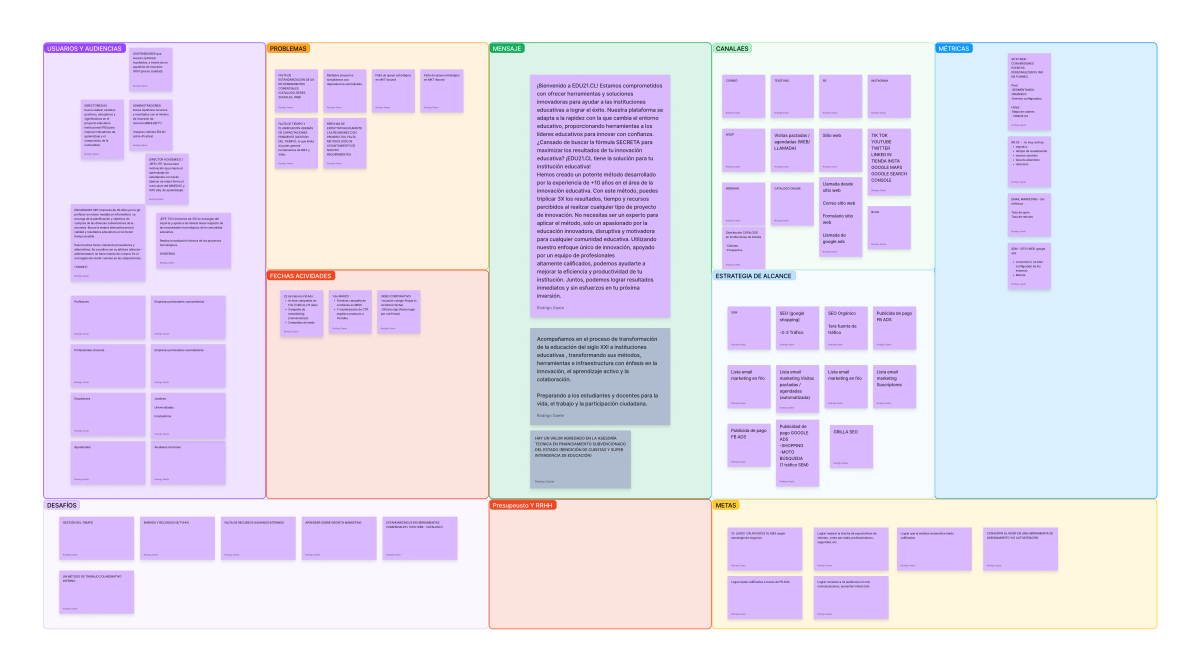
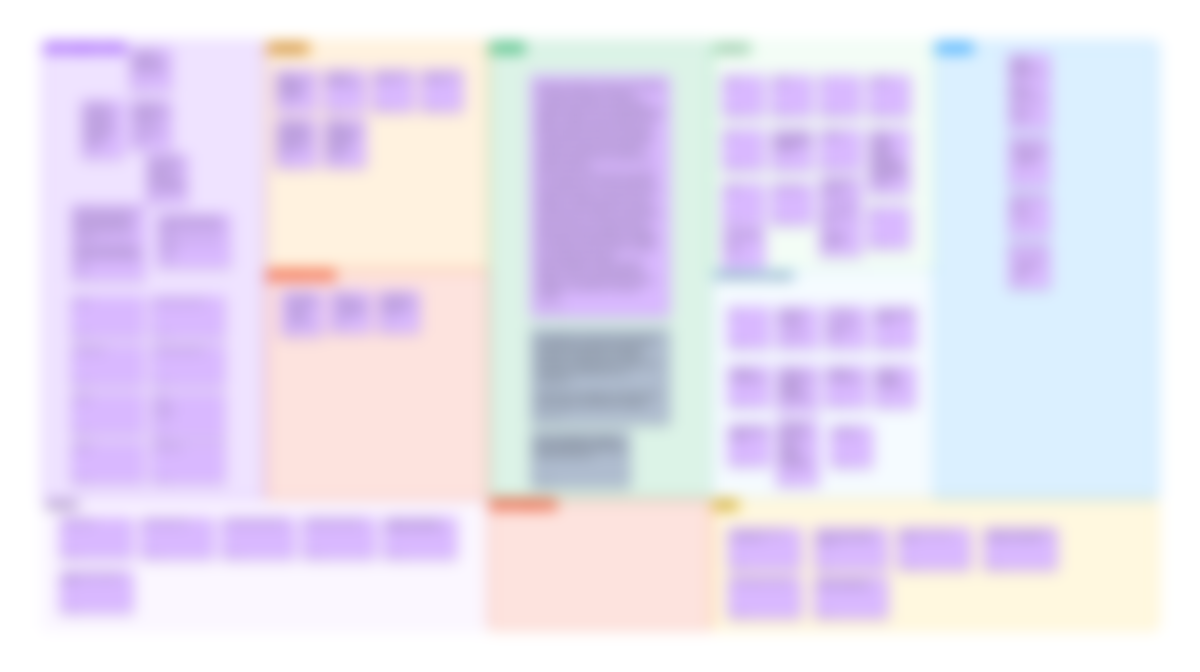
fix(a11y): redacta la lámina de estrategia y el contraste de la selección
Sustituye la captura pública por la versión difuminada y pasa el OCR de dist por la misma lista sha256, con acentos plegados. El pie de la selección usa el token de primer plano y queda dentro de la columna, para que axe resuelva un fondo único.

diff --git a/src/casos/CasoView.tsx b/src/casos/CasoView.tsx
@@ -129,9 +129,9 @@ export function CasoIndex({ slug }: { slug: string }) {
   );
 }
 
-function PieceNav({ casoHref, nextHref }: { casoHref: string; nextHref?: string }) {
+function PieceNav({ casoHref, nextHref, label }: { casoHref: string; nextHref?: string; label: string }) {
   return (
-    <nav aria-label="Pieza" className="mt-8 flex flex-wrap gap-4">
+    <nav aria-label={label} className="mt-8 flex flex-wrap gap-4">
       <a href={casoHref} className="inline-flex min-h-11 items-center font-semibold underline underline-offset-4 hover:text-primary">
         Volver al caso
       </a>
@@ -150,13 +150,14 @@ export function CasoPiece({ casoSlug, pieceSlug }: { casoSlug: string; pieceSlug
   const nextHref = next ? withSiteBase(piezaPath(caso.slug, next.slug)) : undefined;
   return (
     <Shell>
-      <article data-page="pieza" data-caso={caso.slug} data-piece={piece.slug} className="container mx-auto max-w-3xl px-4 py-12 md:py-16">
+      <article data-page="pieza" data-caso={caso.slug} data-piece={piece.slug} className="mx-auto w-[min(64rem,calc(100vw-2rem))] py-12 md:py-16">
+        <div className="mx-auto max-w-3xl px-4">
         <Crumbs casoTitle={caso.title} casoHref={casoHref} pieceTitle={piece.title} />
         <h1 className="text-3xl font-bold tracking-tight sm:text-4xl">{piece.title}</h1>
         <p className="mt-3">
           <TodoMark text="[TODO Rö: «Pitch de ventas y simulación» vs «Pitch y herramientas comerciales»]" />
         </p>
-        <PieceNav casoHref={casoHref} nextHref={nextHref} />
+        <PieceNav casoHref={casoHref} nextHref={nextHref} label="Pieza, al inicio" />
 
         <section className={SECTION} aria-labelledby="ficha-heading">
           <h2 id="ficha-heading" className={H2}>
@@ -204,23 +205,24 @@ export function CasoPiece({ casoSlug, pieceSlug }: { casoSlug: string; pieceSlug
             ))}
           </ol>
         </section>
+        </div>
 
-        <section
-          className={`${SECTION} lg:relative lg:left-1/2 lg:w-[min(64rem,calc(100vw-2rem))] lg:-translate-x-1/2`}
-          aria-labelledby="seleccion-heading"
-        >
-          <h2 id="seleccion-heading" className={H2}>
-            Selección
-          </h2>
-          <p className="mt-2 text-sm text-muted-foreground">
-            {piece.slides.length} láminas de una selección. No es el archivo completo.
-          </p>
-          <p className="mt-3">
-            <TodoMark text="[TODO Rö: pasos de los 3 diagramas raster]" />
-          </p>
+        <section className={SECTION} aria-labelledby="seleccion-heading">
+          <div className="mx-auto max-w-3xl px-4">
+            <h2 id="seleccion-heading" className={H2}>
+              Selección
+            </h2>
+            <p className="mt-2 text-sm text-foreground">
+              {piece.slides.length} láminas de una selección. No es el archivo completo.
+            </p>
+            <p className="mt-3">
+              <TodoMark text="[TODO Rö: pasos de los 3 diagramas raster]" />
+            </p>
+          </div>
           <MockupGallery mockups={slideItems(piece.slides)} language="es" embedded columns={2} />
         </section>
 
+        <div className="mx-auto max-w-3xl px-4">
         <section className={SECTION} aria-labelledby="hallazgos-heading">
           <h2 id="hallazgos-heading" className={H2}>
             Hallazgos
@@ -240,7 +242,8 @@ export function CasoPiece({ casoSlug, pieceSlug }: { casoSlug: string; pieceSlug
           </ul>
         </section>
 
-        <PieceNav casoHref={casoHref} nextHref={nextHref} />
+        <PieceNav casoHref={casoHref} nextHref={nextHref} label="Pieza, al final" />
+        </div>
       </article>
     </Shell>
   );

diff --git a/src/servicios/servicios-content.ts b/src/servicios/servicios-content.ts
@@ -501,7 +501,7 @@ export const SERVICIOS_VN_CASE_GROUPS: readonly VnCaseGroup[] = [
         startingPoint: "Informe SEO del sitio (junio de 2022): carga de 15,4 s y SEO «Deficiente».",
         image: {
           png: "images/cases/mobiliario-edu/03-service-strategy.png",
-          alt: "Tablero de estrategia de servicios de una pyme de mobiliario educacional: audiencias, problemas, mensaje, canales y metas.",
+          alt: "Mapa de estrategia de servicio (detalle difuminado por confidencialidad).",
           width: 1200,
           height: 672,
         },

diff --git a/src/__tests__/lib/dist-no-leaks.test.ts b/src/__tests__/lib/dist-no-leaks.test.ts
@@ -9,6 +9,11 @@ describe("dist sin tokens denegados", () => {
     expect(findDeniedTokens("texto limpio", deny)).toEqual([]);
   });
 
+  it("iguala acentos al token sin marcas", () => {
+    const deny = new Set([sha256("nacion")]);
+    expect(findDeniedTokens("Nación", deny)).toEqual([sha256("nacion")]);
+  });
+
   it("une palabras vecinas aunque las separe un espacio o un guion", () => {
     const joined = "alfa" + "beta";
     const deny = new Set([sha256(joined)]);

diff --git a/src/data/image-registry.ts b/src/data/image-registry.ts
@@ -169,7 +169,7 @@ export const IMAGE_REGISTRY: ImageRegistryEntry[] = [
     "Estrategia de servicios",
     "cases/mobiliario-edu/03-service-strategy.png",
     portfolioImages.mobiliarioEdu.serviceStrategy,
-    "pyme de mobiliario educacional · diseño de estrategia de servicios (E2)"
+    "Mapa de estrategia de servicio (detalle difuminado por confidencialidad)."
   ),
   entry(
     "mobiliarioEdu.salesPitch",
